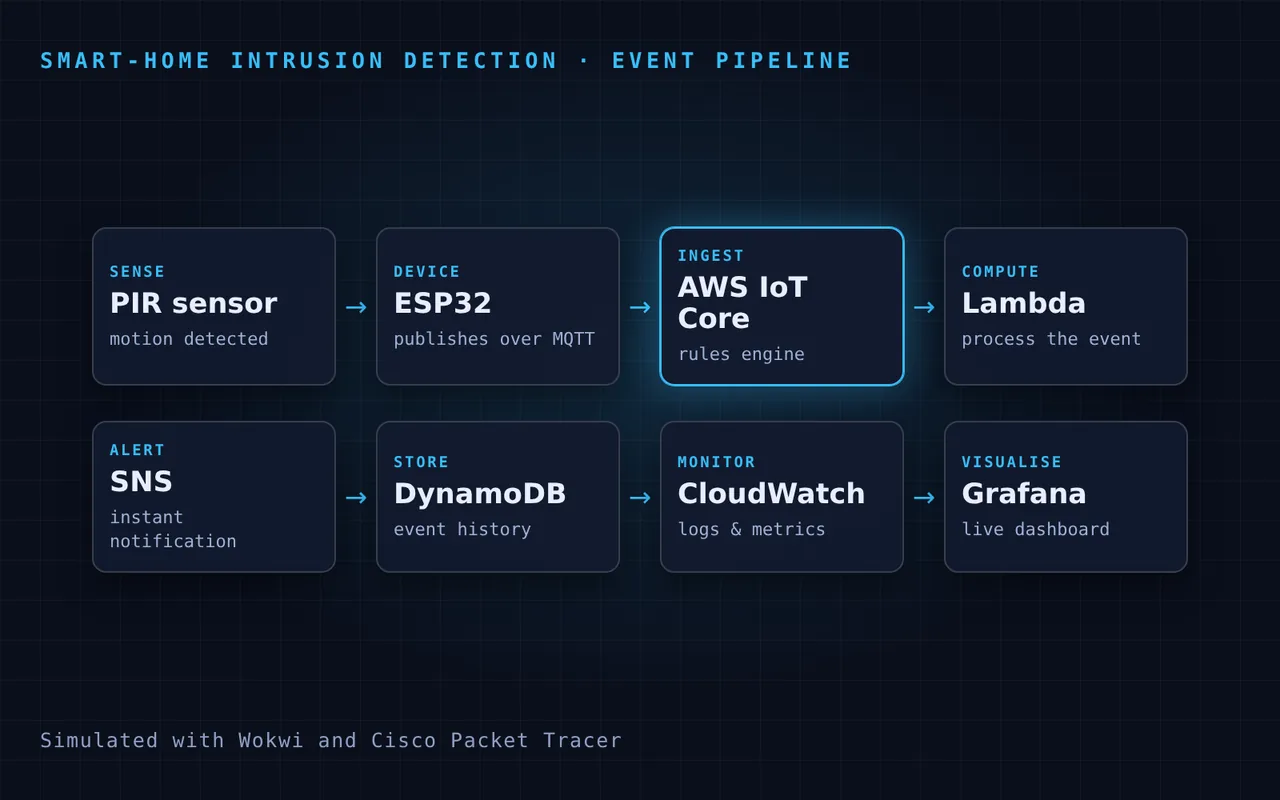
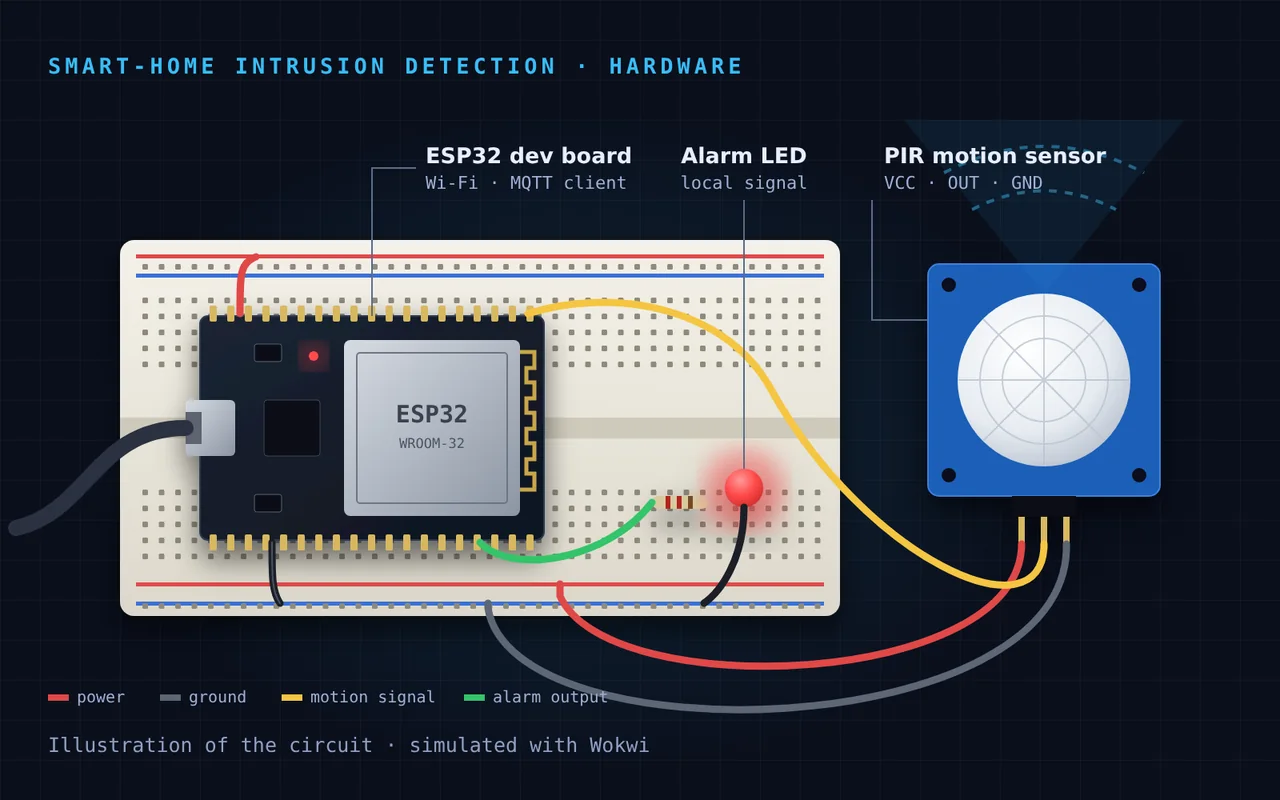
Show the IoT hardware, and stop browsers serving stale project pictures
Replaced pictures kept their file names, so a browser that had already
cached a cover went on showing the old one. Picture URLs now carry a
revision, and /projects/ is always revalidated.

The IoT project gets an illustration of its circuit as cover, with the
event pipeline as a second screen.

Claude-Session: https://claude.ai/code/session_01B9jUWsvu93BkdTJ7a6UgHN

diff --git a/src/data/projects.ts b/src/data/projects.ts
@@ -95,6 +95,7 @@ const BASE: BaseProject[] = [
   { id: 'sentiment', tags: ['Python', 'PySpark', 'Hadoop', 'Docker', 'NLP'] },
   {
     id: 'iot-security',
+    shots: 1,
     tags: ['ESP32', 'MQTT', 'AWS IoT Core', 'Lambda', 'DynamoDB', 'SNS', 'CloudWatch', 'Grafana', 'Wokwi'],
   },
   { id: 'qa-assistant', tags: ['PyTorch', 'Deep Learning', 'NLP', 'Q&A'] },
@@ -592,13 +593,20 @@ const TEXT: Record<Lang, Record<string, ProjectText>> = {
   },
 };
 
+/**
+ * Bump this whenever a picture in public/projects/ is replaced under the same
+ * name: the files keep stable names, so the query string is what tells a
+ * browser that already cached the old one to fetch the new one.
+ */
+export const PICTURES_REV = 3;
+
 /** Where a project's cover lives in public/. */
-export const projectImage = (id: string) => `/projects/${id}.webp`;
+export const projectImage = (id: string) => `/projects/${id}.webp?v=${PICTURES_REV}`;
 
 /** Cover first, then the numbered screens. */
 export const projectGallery = (id: string, shots = 0) => [
   projectImage(id),
-  ...Array.from({ length: shots }, (_, n) => `/projects/${id}/${n + 1}.webp`),
+  ...Array.from({ length: shots }, (_, n) => `/projects/${id}/${n + 1}.webp?v=${PICTURES_REV}`),
 ];
 
 /** The project ids, in display order. */

diff --git a/src/__tests__/content.test.ts b/src/__tests__/content.test.ts
@@ -80,7 +80,7 @@ describe('projects', () => {
 
   it('ships a cover picture for every project', () => {
     for (const item of CONTENT.fr.work.items) {
-      expect(item.image).toBe(`/projects/${item.id}.webp`);
+      expect(item.image.split('?')[0]).toBe(`/projects/${item.id}.webp`);
       expect(
         existsSync(resolve(__dirname, '../../public', `.${item.image}`)),
         `${item.image} is missing`,
